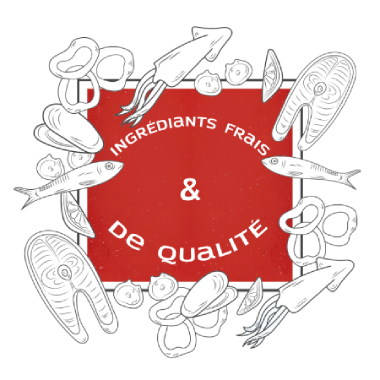
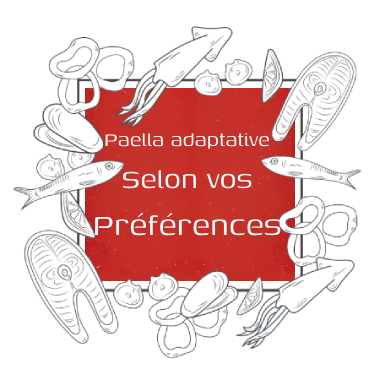
update

diff --git a/Prestations/Paella/prestation_Paella.html b/Prestations/Paella/prestation_Paella.html
@@ -6,19 +6,19 @@
     <meta name="viewport" content="width=device-width, initial-scale=1.0" />
     <meta http-equiv="X-UA-Compatible" content="ie=edge" />
     <meta
-    name="description"
-    content="Découvrez nos services de traiteur paella pour vos événements en Gironde. Des plats authentiques préparés avec soin par Alejandro Gimenez."
-  />
-  <meta name="robots" content="index, follow" />
-  <meta
-    property="og:title"
-    content="Prestations Paella - AG Paella & Flamenco - Alejandro Gimenez"
-  />
-  <meta
-    property="og:description"
-    content="Découvrez nos services de traiteur paella pour vos événements en Gironde. Des plats authentiques préparés avec soin par Alejandro Gimenez."
-  />
-  <meta property="og:image" content="https://i.imgur.com/wZekl8A.png" />
+      name="description"
+      content="Découvrez nos services de traiteur paella pour vos événements en Gironde. Des plats authentiques préparés avec soin par Alejandro Gimenez."
+    />
+    <meta name="robots" content="index, follow" />
+    <meta
+      property="og:title"
+      content="Prestations Paella - AG Paella & Flamenco - Alejandro Gimenez"
+    />
+    <meta
+      property="og:description"
+      content="Découvrez nos services de traiteur paella pour vos événements en Gironde. Des plats authentiques préparés avec soin par Alejandro Gimenez."
+    />
+    <meta property="og:image" content="https://i.imgur.com/wZekl8A.png" />
     <link
       rel="shortcut icon"
       href="../../images/Logo_et_separateur/myFavicon.svg"
@@ -47,7 +47,7 @@
     <header class="header_nav">
       <aside class="above_nav_coordinate">
         <div class="above_nav_coordinate_container_for_border">
-          <li><i>&#x2706;</i>06.56.98.49.02</li>
+          <li><i>&#x2706;</i>06.11.10.65.00</li>
           <li><i>&#x2709;</i>ginofama@hotmail.com</li>
         </div>
       </aside>
@@ -172,9 +172,11 @@
                 <br />
                 <br />
                 <p>
-                  <span>Ingrédients</span><br />Poulet, fruits de mer (moules,
-                  crevettes), haricots verts, poivrons, tomates, riz, huile
-                  d'olive, safran, fumet de poisson.
+                  <span>Personnalisable</span><br>
+                  Cette paella s'adapte à vos besoins et préférences : 
+                  Vegan, Hallal, au Poulet, au Boeuf ... 
+                  Contactez-moi pour plus de personnalisation selon vos
+                  besoins.
                 </p>
               </li>
             </ul>

diff --git a/Contact/contact.html b/Contact/contact.html
@@ -46,7 +46,7 @@
     <header class="header_nav">
       <aside class="above_nav_coordinate">
         <div class="above_nav_coordinate_container_for_border">
-          <li><i>&#x2706;</i>06.56.98.49.02</li>
+          <li><i>&#x2706;</i>06.11.10.65.00</li>
           <li><i>&#x2709;</i>ginofama@hotmail.com</li>
         </div>
       </aside>
@@ -183,7 +183,7 @@
         <div class="coordonne">
           <h2>Coordonnées</h2>
           <ul>
-            <li>06.56.98.49.02</li>
+            <li>06.11.10.65.00</li>
             <li>ginofama@hotmail.com</li>
           </ul>
         </div>

diff --git a/A_Propos/a_propos.html b/A_Propos/a_propos.html
@@ -47,7 +47,7 @@
     <header class="header_nav">
       <aside class="above_nav_coordinate">
         <div class="above_nav_coordinate_container_for_border">
-          <li><i>&#x2706;</i>06.56.98.49.02</li>
+          <li><i>&#x2706;</i>06.11.10.65.00</li>
           <li><i>&#x2709;</i>ginofama@hotmail.com</li>
         </div>
       </aside>

diff --git a/Galerie/galerie.html b/Galerie/galerie.html
@@ -50,7 +50,7 @@
     <header class="header_nav">
       <aside class="above_nav_coordinate">
         <div class="above_nav_coordinate_container_for_border">
-          <li><i>&#x2706;</i>06.56.98.49.02</li>
+          <li><i>&#x2706;</i>06.11.10.65.00</li>
           <li><i>&#x2709;</i>ginofama@hotmail.com</li>
         </div>
       </aside>

diff --git a/Prestations/Flamenco/prestation_Flamenco.html b/Prestations/Flamenco/prestation_Flamenco.html
@@ -48,7 +48,7 @@
     <header class="header_nav">
       <aside class="above_nav_coordinate">
         <div class="above_nav_coordinate_container_for_border">
-          <li><i>&#x2706;</i>06.56.98.49.02</li>
+          <li><i>&#x2706;</i>06.11.10.65.00</li>
           <li><i>&#x2709;</i>ginofama@hotmail.com</li>
         </div>
       </aside>

diff --git a/index.html b/index.html
@@ -48,7 +48,7 @@
     <header class="header_nav">
       <aside class="above_nav_coordinate">
         <div class="above_nav_coordinate_container_for_border">
-          <li><i>&#x2706;</i>06.56.98.49.02</li>
+          <li><i>&#x2706;</i>06.11.10.65.00</li>
           <li><i>&#x2709;</i>ginofama@hotmail.com</li>
         </div>
       </aside>
